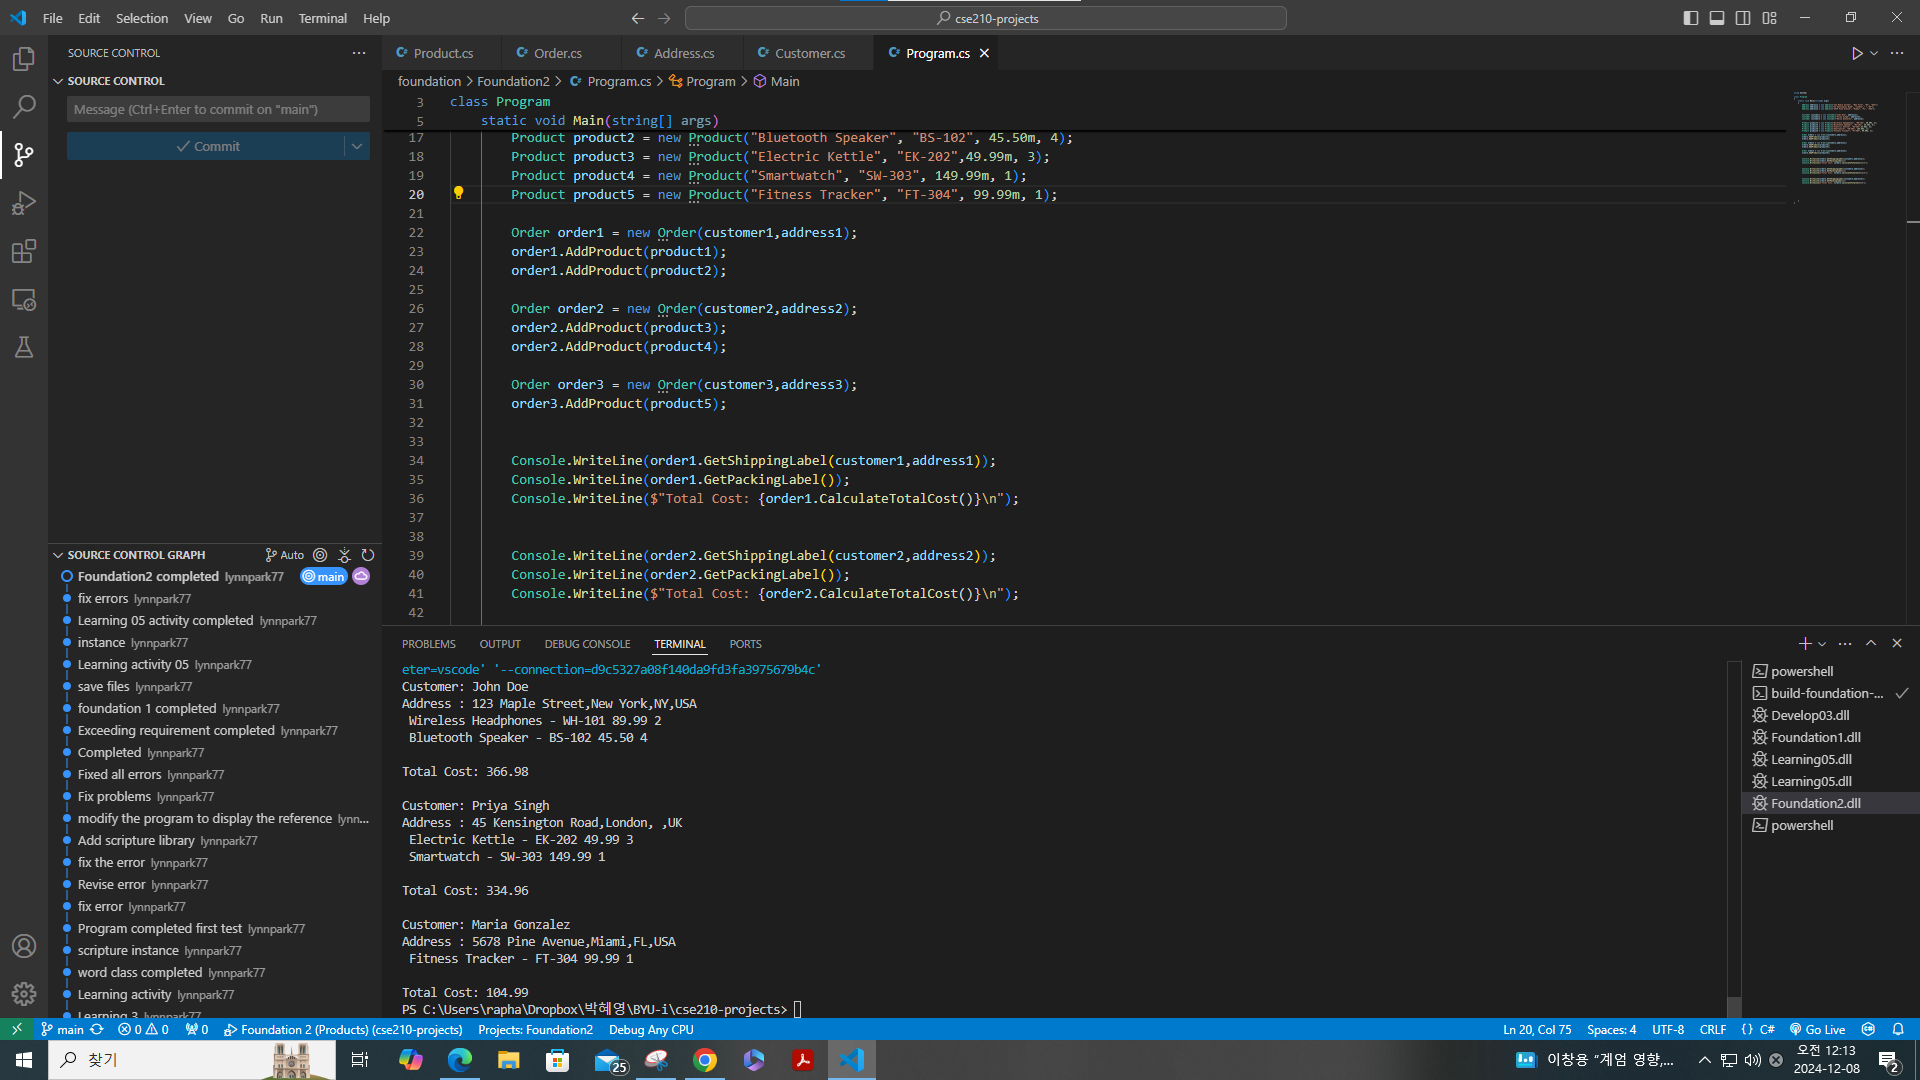
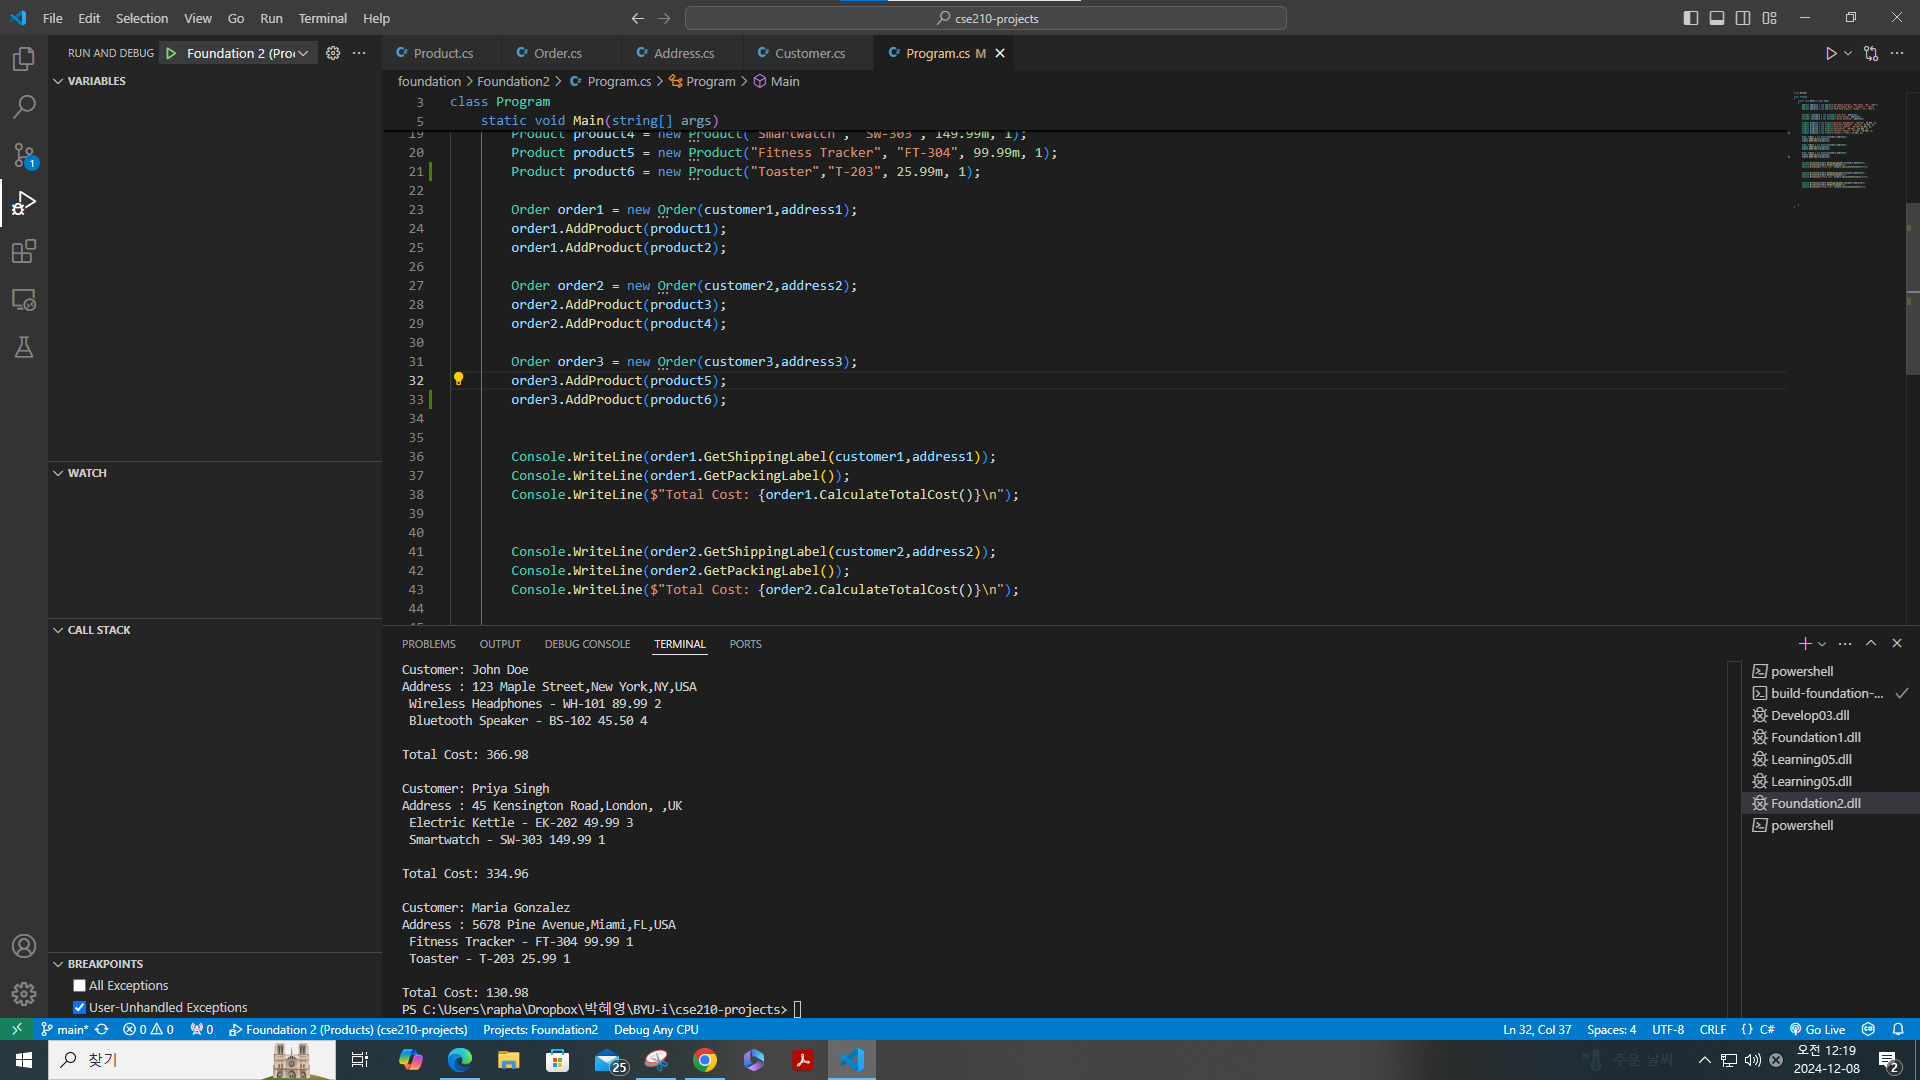
foundation 2 completed

diff --git a/foundation/Foundation2/Program.cs b/foundation/Foundation2/Program.cs
@@ -18,6 +18,7 @@ class Program
         Product product3 = new Product("Electric Kettle", "EK-202",49.99m, 3);
         Product product4 = new Product("Smartwatch", "SW-303", 149.99m, 1);
         Product product5 = new Product("Fitness Tracker", "FT-304", 99.99m, 1);
+        Product product6 = new Product("Toaster","T-203", 25.99m, 1);
 
         Order order1 = new Order(customer1,address1);
         order1.AddProduct(product1);
@@ -29,6 +30,7 @@ class Program
 
         Order order3 = new Order(customer3,address3);
         order3.AddProduct(product5);
+        order3.AddProduct(product6);
 
         
         Console.WriteLine(order1.GetShippingLabel(customer1,address1));
